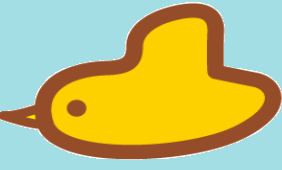
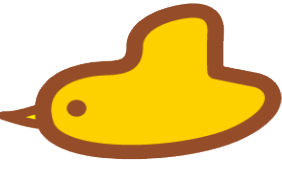
Cambio de imagenes

diff --git a/css/style.css b/css/style.css
@@ -231,7 +231,7 @@ main {
     position: absolute;
     width: 15vw;
     height: 15vh;
-    margin-left: 23%;
+    margin-left: 15%;
     bottom: 4vh;
 }
 
